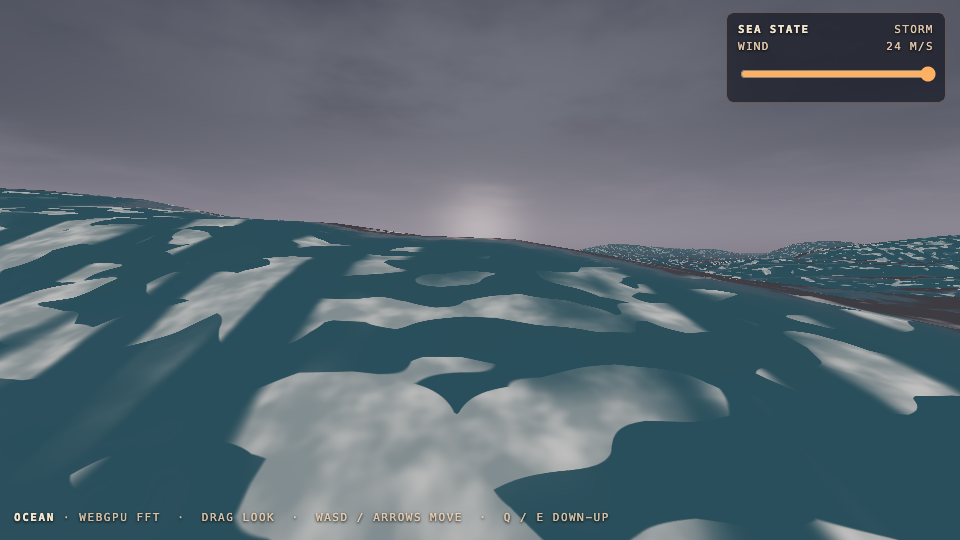
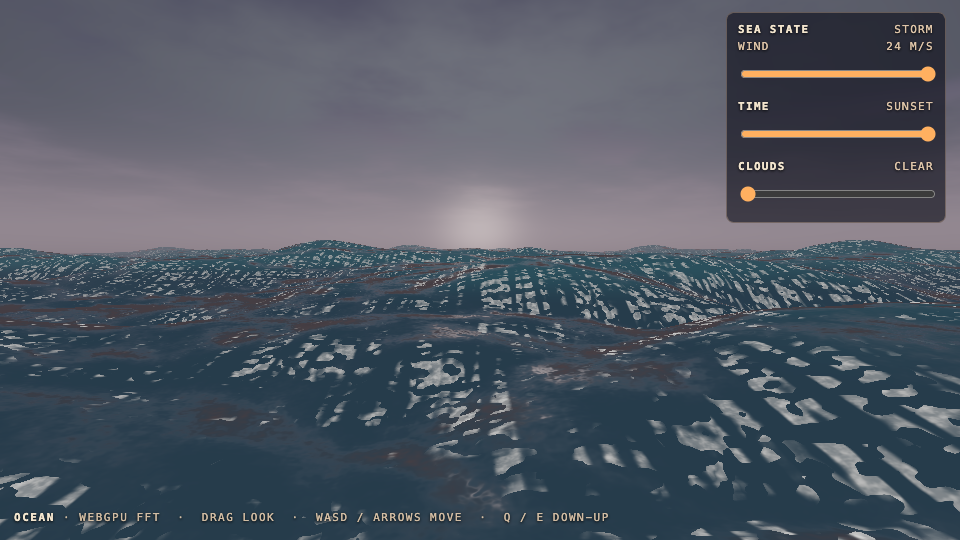
OCEAN: real night sky from the Yale Bright Star Catalogue (#520) (#532)
* QA (#520): stage verified Yale BSC v5 night-sky data (top-500 + MW band)

Source: aduboisforge/Bright-Star-Catalog-JSON (Yale Bright Star Catalogue v5,
J2000). Top 500 by V mag (-1.46..+3.96) with ra/dec/mag/spectral-color, plus
~260 points along the galactic plane for a faint Milky Way band. Verified:
Sirius, Arcturus, Vega, Polaris (dec 89.26, the single star at the N pole),
Canopus, Capella all land at correct J2000 coords. Not yet wired into ocean.html.

Closes nothing (checkpoint). Wires next session: star billboard pass + MW +
__oceanTest.stars() hook + oceancheck real-catalog gate + night shots.

* QA (mini): WIP checkpoint at the 75-minute hard cap

* QA (#520): night-sky wired + verified; regenerate proof shots (Big Dipper, MW band)

oceancheck ALL GREEN: real Yale BSC catalog, pole at lat 38.6N due north,
Big Dipper 7/7 up, sky rotates with the time slider. storm-at-night var
flakes at the wave phase (0.98/1.10 across runs) — pre-existing, not #520.

diff --git a/public/demos/ocean.stars.js b/public/demos/ocean.stars.js
@@ -1,0 +1,17 @@
+// Night-sky data: Yale Bright Star Catalogue v5 (J2000) — top 500 by V magnitude.
+// Source: aduboisforge/Bright-Star-Catalog-JSON (Yale Bright Star Catalogue v5, J2000), master @ 704675ce
+//  [raDeg, decDeg, vMag, colorIdx]  colorIdx: 0 O .. 6 M
+const STAR_SRC = "aduboisforge/Bright-Star-Catalog-JSON (Yale Bright Star Catalogue v5, J2000), master @ 704675ce";
+const STAR_PAL = [[0.61,0.68,1],[0.79,0.84,1],[0.93,0.95,1],[1,0.98,0.94],[1,0.93,0.84],[1,0.78,0.55],[1,0.6,0.36]];
+const LAT_DEG = 38.6;
+const BSC = [
+  [101.287,-16.716,-1.46,2],  [95.988,-52.696,-0.72,3],  [213.915,19.183,-0.04,5],  [219.9,-60.835,-0.01,4],  [279.235,38.784,0.03,2],  [79.172,45.998,0.08,4],  [78.635,-8.202,0.12,1],  [114.825,5.225,0.38,3],  [24.429,-57.237,0.46,1],  [88.793,7.407,0.5,6],  [210.956,-60.373,0.61,1],  [297.696,8.868,0.77,2],  [68.98,16.509,0.85,5],  [247.352,-26.432,0.96,6],  [201.298,-11.161,0.98,1],  [116.329,28.026,1.14,5],  [344.413,-29.622,1.16,2],  [191.93,-59.689,1.25,1],  [310.358,45.28,1.25,2],  [186.65,-63.099,1.33,1],  [219.9,-60.836,1.33,5],  [152.093,11.967,1.35,1],  [104.656,-28.972,1.5,1],  [187.791,-57.113,1.63,6],  [263.402,-37.104,1.63,1],  [81.283,6.35,1.64,1],  [81.573,28.608,1.65,1],  [138.3,-69.717,1.68,2],  [84.053,-1.202,1.7,1],  [186.652,-63.099,1.73,1],  [332.058,-46.961,1.74,1],  [193.507,55.96,1.77,2],  [122.383,-47.337,1.78,4],  [51.081,49.861,1.79,3],  [165.932,61.751,1.79,5],  [107.098,-26.393,1.84,3],  [276.043,-34.385,1.85,1],  [125.628,-59.51,1.86,5],  [206.885,49.313,1.86,1],  [264.33,-42.998,1.87,3],  [89.882,44.947,1.9,2],  [252.166,-69.028,1.92,5],  [99.428,16.399,1.93,2],  [306.412,-56.735,1.94,1],  [131.176,-54.708,1.96,2],  [95.675,-17.956,1.98,1],  [113.65,31.888,1.98,2],  [141.897,-8.659,1.98,5],  [31.793,23.462,2,5],  [239.876,25.92,2,4],  [37.953,89.264,2.02,3],  [283.816,-26.297,2.02,1],  [10.898,-17.987,2.04,4],  [85.19,-1.943,2.05,0],  [2.097,29.091,2.06,1],  [17.433,35.621,2.06,6],  [86.939,-9.67,2.06,1],  [211.671,-36.37,2.06,5],  [222.676,74.156,2.08,5],  [263.734,12.56,2.08,2],  [340.667,-46.885,2.1,6],  [47.042,40.956,2.12,1],  [177.265,14.572,2.14,2],  [190.379,-48.96,2.17,2],  [305.557,40.257,2.2,3],  [136.999,-43.432,2.21,5],  [10.127,56.537,2.23,5],  [83.002,-0.299,2.23,0],  [233.672,26.715,2.23,2],  [269.152,51.489,2.23,5],  [120.896,-40.003,2.25,0],  [139.273,-59.275,2.25,2],  [30.975,42.33,2.26,5],  [2.295,59.15,2.27,3],  [200.981,54.925,2.27,2],  [252.541,-34.293,2.29,5],  [204.972,-53.466,2.3,1],  [220.482,-47.388,2.3,1],  [218.877,-42.158,2.31,1],  [240.083,-22.622,2.32,1],  [165.46,56.383,2.37,2],  [6.571,-42.306,2.39,5],  [326.047,9.875,2.39,5],  [265.622,-39.03,2.41,1],  [345.944,28.083,2.42,6],  [257.595,-15.725,2.43,2],  [178.457,53.695,2.44,2],  [319.645,62.586,2.44,2],  [111.024,-29.303,2.45,1],  [311.553,33.97,2.46,5],  [14.177,60.717,2.47,1],  [346.19,15.205,2.49,1],  [140.528,-55.011,2.5,1],  [45.57,4.09,2.53,6],  [208.885,-47.288,2.55,1],  [168.527,20.524,2.56,2],  [249.29,-10.567,2.56,0],  [83.182,-17.822,2.58,3],  [183.952,-17.542,2.59,1],  [182.09,-50.723,2.6,1],  [285.653,-29.88,2.6,2],  [154.993,19.842,2.61,5],  [229.252,-9.383,2.61,1],  [89.93,37.213,2.62,2],  [241.359,-19.806,2.62,1],  [28.66,20.808,2.64,2],  [84.912,-34.074,2.64,1],  [188.597,-23.397,2.65,4],  [236.067,6.426,2.65,5],  [21.454,60.235,2.68,2],  [208.671,18.398,2.68,4],  [224.633,-43.134,2.68,1],  [74.248,33.166,2.69,5],  [161.692,-49.42,2.69,4],  [189.296,-69.136,2.69,1],  [262.691,-37.296,2.69,1],  [109.286,-37.098,2.7,5],  [221.247,27.074,2.7,5],  [275.249,-29.828,2.7,5],  [296.565,10.613,2.72,5],  [243.586,-3.694,2.74,6],  [245.998,61.514,2.74,4],  [200.149,-36.712,2.75,2],  [222.72,-16.042,2.75,2],  [160.739,-64.394,2.76,1],  [83.858,-5.91,2.77,0],  [247.555,21.49,2.77,4],  [265.868,4.567,2.77,5],  [233.785,-41.167,2.78,1],  [76.963,-5.086,2.79,2],  [262.608,52.301,2.79,4],  [6.438,-77.254,2.8,4],  [183.786,-58.749,2.8,1],  [121.886,-24.304,2.81,3],  [250.322,31.603,2.81,4],  [276.993,-25.422,2.81,5],  [248.971,-28.216,2.82,1],  [3.309,15.184,2.83,1],  [195.544,10.959,2.83,4],  [82.061,-20.759,2.84,4],  [58.533,31.884,2.85,1],  [238.785,-63.431,2.85,3],  [261.325,-55.53,2.85,5],  [29.692,-61.57,2.86,3],  [334.625,-60.26,2.86,5],  [56.871,24.105,2.87,1],  [296.244,45.131,2.87,1],  [326.76,-16.127,2.87,2],  [95.74,22.514,2.88,6],  [113.65,31.889,2.88,2],  [59.463,40.01,2.89,1],  [229.728,-68.679,2.89,2],  [239.713,-26.114,2.89,1],  [245.297,-25.593,2.89,1],  [287.441,-21.024,2.89,3],  [111.788,8.289,2.9,1],  [194.007,38.318,2.9,2],  [322.89,-5.571,2.91,4],  [46.199,53.506,2.93,4],  [102.484,-50.615,2.93,5],  [340.75,30.221,2.94,4],  [59.508,-13.509,2.95,6],  [187.466,-16.516,2.95,1],  [262.96,-49.876,2.95,1],  [331.446,-0.32,2.96,4],  [100.983,25.131,2.98,4],  [146.463,23.774,2.98,4],  [75.492,43.823,2.99,3],  [271.452,-30.424,2.99,5],  [286.352,13.863,2.99,2],  [32.386,34.987,3,2],  [84.411,21.142,3,1],  [182.531,-22.62,3,5],  [199.73,-23.172,3,4],  [55.731,47.788,3.01,1],  [146.775,-65.072,3.01,2],  [167.416,44.499,3.01,5],  [328.482,-37.365,3.01,1],  [95.078,-30.063,3.02,1],  [105.756,-23.833,3.02,1],  [218.02,38.308,3.03,2],  [266.896,-40.127,3.03,3],  [34.836,-2.978,3.04,6],  [207.404,-42.474,3.04,1],  [155.582,41.499,3.05,6],  [191.57,-68.108,3.05,1],  [230.182,71.834,3.05,2],  [288.139,67.662,3.07,4],  [252.968,-38.047,3.08,1],  [292.68,27.96,3.08,5],  [305.253,-14.781,3.08,3],  [133.848,5.946,3.11,4],  [162.406,-16.194,3.11,5],  [274.407,-36.762,3.11,6],  [309.392,-47.291,3.11,5],  [87.74,-35.768,3.12,5],  [140.264,34.392,3.13,5],  [142.805,-57.034,3.13,5],  [173.945,-63.02,3.13,1],  [224.79,-42.104,3.13,1],  [254.655,-55.99,3.13,5],  [134.802,48.042,3.14,2],  [258.758,24.839,3.14,2],  [258.762,36.809,3.16,5],  [76.629,41.234,3.17,1],  [99.44,-43.196,3.17,1],  [143.214,51.677,3.17,3],  [257.197,65.715,3.17,1],  [281.414,-26.991,3.17,1],  [72.46,6.961,3.19,3],  [76.365,-22.371,3.19,5],  [220.627,-64.975,3.19,2],  [254.417,9.375,3.2,5],  [318.234,30.227,3.2,4],  [267.465,-37.043,3.21,5],  [354.837,77.632,3.21,5],  [230.343,-40.648,3.22,1],  [302.826,-0.821,3.23,1],  [322.165,70.561,3.23,1],  [44.565,-40.305,3.24,2],  [56.81,-74.239,3.24,6],  [244.58,-4.692,3.24,4],  [284.736,32.689,3.24,1],  [112.308,-43.301,3.25,5],  [275.328,-2.899,3.26,5],  [9.832,30.861,3.27,5],  [68.499,-55.045,3.27,2],  [102.047,-61.941,3.27,2],  [211.593,-26.683,3.27,5],  [260.502,-24.999,3.27,1],  [343.662,-15.821,3.27,2],  [93.719,22.507,3.28,6],  [226.017,-25.282,3.29,6],  [231.232,58.966,3.29,5],  [16.521,-46.719,3.31,4],  [78.233,-16.206,3.31,1],  [183.857,57.032,3.31,2],  [153.434,-70.038,3.32,1],  [158.006,-61.685,3.32,1],  [286.735,-27.671,3.32,5],  [258.038,-43.239,3.33,3],  [117.324,-24.86,3.34,4],  [168.56,15.429,3.34,2],  [261.348,-56.377,3.34,1],  [269.757,-9.774,3.34,5],  [63.606,-62.474,3.35,4],  [332.714,58.201,3.35,5],  [81.119,-2.397,3.36,1],  [101.322,12.896,3.36,3],  [127.566,60.718,3.36,4],  [291.375,3.115,3.36,3],  [203.673,-0.596,3.37,2],  [230.67,-44.689,3.37,1],  [28.599,63.67,3.38,1],  [131.694,6.419,3.38,4],  [193.901,3.397,3.38,6],  [46.294,38.84,3.39,6],  [67.165,15.871,3.4,2],  [154.271,-61.332,3.4,5],  [340.365,10.831,3.4,1],  [22.091,-43.318,3.41,6],  [28.27,29.579,3.41,3],  [207.376,-41.688,3.41,1],  [228.071,-52.099,3.41,4],  [240.03,-38.397,3.41,1],  [266.615,27.721,3.42,4],  [311.24,-66.203,3.42,2],  [311.322,61.839,3.43,5],  [12.275,57.816,3.44,3],  [137.742,-58.967,3.44,1],  [154.173,23.417,3.44,3],  [286.562,-4.883,3.44,1],  [17.148,-10.182,3.45,5],  [154.274,42.914,3.45,2],  [282.52,33.363,3.45,1],  [40.825,3.236,3.47,2],  [60.17,12.49,3.47,1],  [105.43,-27.935,3.47,5],  [119.195,-52.982,3.47,1],  [228.876,33.315,3.47,4],  [299.689,19.492,3.47,6],  [169.62,33.094,3.48,5],  [258.662,14.39,3.48,6],  [342.501,24.602,3.48,4],  [342.139,-51.317,3.49,2],  [26.017,-15.938,3.5,4],  [225.487,40.391,3.5,4],  [276.743,-45.968,3.51,1],  [284.432,-21.107,3.51,5],  [124.129,9.186,3.52,5],  [145.287,9.892,3.52,3],  [151.833,16.763,3.52,2],  [342.42,66.201,3.52,5],  [67.154,19.18,3.53,4],  [110.031,21.982,3.53,3],  [237.405,-3.43,3.53,2],  [250.724,38.922,3.53,4],  [332.55,6.198,3.53,2],  [55.812,-9.763,3.54,5],  [83.785,9.934,3.54,0],  [149.216,-54.568,3.54,1],  [173.25,-31.858,3.54,4],  [264.397,-15.399,3.54,3],  [86.739,-14.822,3.55,2],  [214.851,-46.058,3.55,1],  [4.857,-8.824,3.56,5],  [34.128,-51.512,3.56,1],  [64.474,-33.798,3.56,1],  [169.835,-14.779,3.56,4],  [230.452,-36.261,3.56,5],  [302.182,-66.182,3.56,4],  [24.498,48.628,3.57,5],  [116.112,24.398,3.57,4],  [253.084,-38.017,3.57,1],  [275.264,72.733,3.57,3],  [304.514,-12.545,3.57,4],  [109.523,16.54,3.58,2],  [217.958,30.371,3.58,5],  [234.256,-28.135,3.58,5],  [185.34,-60.401,3.59,5],  [21.006,-8.183,3.6,5],  [51.203,9.029,3.6,4],  [79.402,-6.844,3.6,1],  [86.116,-22.448,3.6,3],  [103.197,33.961,3.6,2],  [135.906,47.157,3.6,2],  [142.675,-40.467,3.6,3],  [116.314,-37.969,3.61,5],  [152.647,-12.354,3.61,5],  [177.674,1.765,3.61,3],  [22.871,15.346,3.62,4],  [130.073,-52.922,3.62,1],  [195.567,-71.549,3.62,5],  [253.646,-42.361,3.62,5],  [262.775,-60.684,3.62,1],  [266.433,-64.724,3.62,5],  [345.48,42.326,3.62,1],  [42.496,27.261,3.63,1],  [57.29,24.053,3.63,1],  [309.387,14.595,3.63,3],  [176.402,-66.729,3.64,2],  [64.948,15.628,3.65,5],  [190.415,-1.449,3.65,3],  [211.097,64.376,3.65,2],  [313.702,-58.454,3.65,5],  [9.243,53.897,3.66,1],  [234.664,-29.778,3.66,1],  [271.658,-50.092,3.66,1],  [347.362,-21.172,3.66,5],  [142.882,63.062,3.67,3],  [236.547,15.422,3.67,2],  [130.898,-33.186,3.68,1],  [190.415,-1.449,3.68,3],  [231.957,29.106,3.68,3],  [325.023,-16.662,3.68,3],  [49.879,-21.758,3.69,6],  [72.802,5.605,3.69,1],  [146.312,-62.508,3.69,4],  [349.291,3.282,3.69,4],  [28.99,-51.609,3.7,4],  [56.219,24.113,3.7,1],  [269.441,29.248,3.7,4],  [89.101,-14.168,3.71,3],  [176.512,47.779,3.71,5],  [237.704,4.478,3.71,2],  [298.828,6.407,3.71,4],  [73.563,2.441,3.72,1],  [89.882,54.285,3.72,5],  [221.562,1.893,3.72,2],  [316.233,43.928,3.72,5],  [318.698,38.046,3.72,3],  [27.865,-10.335,3.73,5],  [53.232,-9.458,3.73,5],  [118.054,-40.576,3.73,5],  [271.837,9.564,3.73,2],  [51.793,9.733,3.74,1],  [321.667,-22.411,3.74,4],  [343.154,-7.58,3.74,6],  [75.62,41.076,3.75,5],  [136.039,-47.098,3.75,5],  [245.48,19.153,3.75,2],  [266.973,2.707,3.75,2],  [268.382,56.873,3.75,5],  [337.293,58.415,3.75,3],  [42.674,55.896,3.76,5],  [65.734,17.543,3.76,5],  [83.406,-62.49,3.76,3],  [252.446,-59.041,3.76,5],  [325.369,-77.39,3.76,5],  [331.753,25.345,3.76,3],  [56.298,42.579,3.77,3],  [126.434,-66.137,3.77,5],  [286.171,-21.742,3.77,4],  [289.276,53.369,3.77,4],  [309.91,15.912,3.77,1],  [311.919,-9.496,3.77,2],  [337.823,50.282,3.77,2],  [107.187,-70.499,3.78,5],  [163.373,-58.853,3.78,5],  [106.027,20.57,3.79,3],  [111.432,27.798,3.79,4],  [292.426,51.73,3.79,2],  [303.408,46.741,3.79,5],  [47.374,44.857,3.8,5],  [147.748,59.039,3.8,3],  [154.994,19.841,3.8,4],  [233.7,10.537,3.8,3],  [233.7,10.539,3.8,3],  [264.866,46.006,3.8,1],  [84.687,-2.6,3.81,0],  [87.83,-20.879,3.81,5],  [156.523,-16.836,3.81,5],  [68.887,-30.562,3.82,4],  [139.711,36.802,3.82,2],  [156.97,-58.739,3.82,3],  [247.728,1.984,3.82,2],  [296.847,18.534,3.82,6],  [354.391,46.458,3.82,4],  [56.08,32.288,3.83,1],  [163.328,34.215,3.83,5],  [209.568,-42.101,3.83,1],  [221.965,-79.045,3.83,5],  [271.886,28.762,3.83,1],  [297.043,70.268,3.83,4],  [67.144,15.962,3.84,5],  [130.157,-46.649,3.84,3],  [133.762,-60.645,3.84,1],  [159.325,-48.226,3.84,3],  [172.851,69.331,3.84,6],  [235.686,26.296,3.84,1],  [275.925,21.77,3.84,5],  [335.414,-1.387,3.84,2],  [56.05,-64.807,3.85,5],  [86.821,-51.066,3.85,2],  [95.528,-33.436,3.85,4],  [108.703,-26.773,3.85,1],  [153.684,-42.122,3.85,2],  [158.203,9.307,3.85,1],  [239.113,15.662,3.85,3],  [243.86,-63.686,3.85,4],  [278.802,-8.244,3.85,5],  [63.5,-42.294,3.86,5],  [189.426,-48.541,3.86,2],  [269.063,37.251,3.86,5],  [273.441,-21.059,3.86,1],  [14.188,38.499,3.87,2],  [48.018,-28.987,3.87,3],  [56.457,24.368,3.87,1],  [69.545,-14.304,3.87,5],  [82.803,-35.471,3.87,5],  [103.533,-24.184,3.87,5],  [188.117,-72.133,3.87,1],  [188.371,69.788,3.87,1],  [209.67,-44.804,3.87,1],  [227.984,-48.738,3.87,1],  [2.353,-45.748,3.88,5],  [138.591,2.314,3.88,1],  [148.191,26.007,3.88,5],  [202.761,-39.407,3.88,4],  [220.765,-5.658,3.88,3],  [239.221,-29.214,3.88,1],  [44.107,-8.898,3.89,5],  [170.252,-54.491,3.89,1],  [184.977,-0.667,3.89,2],  [244.935,46.313,3.89,1],  [248.363,-78.897,3.89,4],  [299.077,35.083,3.89,5],  [126.415,-3.906,3.9,2],  [298.118,1.006,3.9,3],  [347.59,-45.247,3.9,5],  [60.789,5.989,3.91,2],  [131.507,-46.042,3.91,2],  [144.964,-1.143,3.91,5],  [167.147,-58.975,3.91,4],  [187.01,-50.231,3.91,1],  [233.882,-14.789,3.91,4],  [17.096,-55.246,3.92,1],  [255.073,30.926,3.92,2],  [318.956,5.248,3.92,4],  [69.08,-3.353,3.93,1],  [115.312,-9.551,3.93,5],  [290.418,-17.847,3.93,3],  [6.551,-43.68,3.94,2],  [131.171,18.154,3.94,5],  [170.981,10.529,3.94,3],  [314.293,41.167,3.94,2],  [22.813,-49.073,3.95,5],  [43.565,52.763,3.95,4],  [99.171,-19.256,3.95,5],  [115.455,-72.606,3.95,5],  [200.985,54.922,3.95,2],  [237.74,-33.627,3.95,1],  [341.633,23.566,3.95,4],  [66.009,-34.017,3.96,5],  [89.787,-42.815,3.96,5],  [102.46,-32.509,3.96,1],  [115.952,-28.955,3.96,2],  [182.913,-52.369,3.96,1],  [241.702,-20.669,3.96,1],  [300.148,-72.911,3.96,2],
+];
+// Faint Milky Way band: ~260 points scattered along the galactic plane (J2000).
+//  [raDeg, decDeg, additiveBrightness]
+const MILKY = [
+  [268.1,29.61,0.06],  [265.43,26.67,0.069],  [268.31,26.46,0.091],  [268.05,25.9,0.089],  [265.26,21.58,0.051],  [272.32,23.64,0.056],  [271.26,21.37,0.081],  [272.58,20.97,0.068],  [272.57,20.23,0.086],  [274.78,18.31,0.072],  [271.21,16.55,0.054],  [276.03,16.13,0.062],  [272.24,13.54,0.048],  [276.76,12.93,0.086],  [278.27,13.31,0.056],  [279.3,11.39,0.051],  [277.26,10.2,0.078],  [275.11,6.95,0.047],  [281.03,7.26,0.061],  [281.69,6.54,0.053],  [282.62,6.22,0.06],  [279.85,2.19,0.056],  [279.71,1.19,0.061],  [283.26,1.21,0.064],  [281.58,-1.07,0.052],  [284.49,-1.24,0.07],  [285.03,-2.55,0.069],  [282.94,-4.6,0.054],  [285.98,-4.54,0.085],  [286.62,-5.8,0.066],  [283.36,-8.83,0.039],  [284.15,-10.94,0.036],  [286.57,-10.31,0.057],  [286.4,-12.31,0.046],  [289.82,-12.83,0.086],  [287.22,-15.34,0.055],  [291.64,-14.51,0.074],  [287.93,-16.95,0.048],  [293.74,-16.08,0.057],  [294.73,-17.6,0.051],  [292.31,-20.39,0.072],  [294.98,-19.67,0.065],  [296.66,-21.95,0.064],  [291.92,-24.42,0.049],  [300.16,-22.22,0.042],  [299.86,-24.6,0.054],  [299.75,-25.11,0.059],  [299.33,-28.97,0.087],  [299.84,-28.33,0.076],  [302.16,-29.65,0.066],  [302.13,-31.22,0.076],  [299.11,-33.8,0.058],  [303.19,-32.8,0.069],  [304.11,-34.93,0.094],  [305.78,-35.12,0.073],  [303.29,-38.61,0.057],  [308.06,-37.39,0.061],  [309.02,-37.4,0.052],  [310.83,-39.9,0.067],  [311.66,-41.51,0.078],  [311.94,-42.77,0.088],  [311.67,-44.26,0.061],  [311.44,-46.41,0.053],  [318.33,-43.23,0.049],  [315.5,-48.73,0.057],  [319.62,-46.89,0.066],  [321.3,-47.65,0.048],  [323.22,-47.51,0.042],  [321.91,-52.54,0.06],  [324.26,-51.1,0.076],  [324.9,-53.6,0.065],  [325.97,-54.97,0.055],  [328.87,-53.65,0.076],  [334.04,-53.43,0.054],  [332.87,-57.82,0.066],  [335.83,-59.39,0.051],  [337.93,-57.35,0.079],  [337.24,-63.01,0.05],  [341.7,-60.57,0.05],  [345.38,-60.2,0.078],  [346.02,-61.1,0.059],  [348.65,-58.62,0.051],  [353.69,-60.01,0.068],  [357.57,-64.63,0.048],  [357.13,-61.06,0.073],  [4.03,-63.68,0.062],  [1.02,-58.76,0.056],  [9.44,-66.12,0.058],  [11.34,-65.27,0.049],  [14.51,-63.48,0.084],  [16.7,-64.03,0.071],  [17.52,-61.46,0.074],  [19.13,-60.1,0.055],  [30.45,-65.12,0.051],  [26.1,-59.33,0.057],  [30.99,-62.24,0.071],  [38.83,-63.48,0.044],  [37.64,-62.58,0.061],  [33.42,-56.17,0.043],  [40.94,-58.5,0.071],  [48.03,-61.04,0.052],  [46.8,-58.73,0.081],  [45.96,-55.71,0.053],  [51.63,-56.12,0.089],  [47.3,-52.4,0.044],  [48.64,-50.47,0.039],  [56.84,-55.73,0.072],  [53.95,-51.22,0.058],  [62.83,-52.76,0.064],  [63.89,-52.97,0.063],  [64,-51.86,0.084],  [60.88,-48.05,0.06],  [62.04,-45.79,0.056],  [68.49,-47.37,0.082],  [68.67,-46.01,0.077],  [66.13,-43.8,0.054],  [70.25,-43.57,0.063],  [75.22,-44.54,0.058],  [73.78,-41.26,0.07],  [77.88,-43.82,0.059],  [78.72,-41.95,0.067],  [74.32,-36.93,0.057],  [80.6,-39.04,0.074],  [77.45,-36.53,0.051],  [79.23,-35.76,0.074],  [81.63,-34.02,0.07],  [80.19,-32.75,0.063],  [82.45,-31.23,0.066],  [85.47,-31.36,0.073],  [86.53,-30,0.084],  [87.86,-29.23,0.063],  [84.86,-27.48,0.051],  [89.43,-28.05,0.058],  [90.09,-26.26,0.065],  [87.61,-24.32,0.06],  [93.56,-24.55,0.057],  [91.83,-23.06,0.058],  [91.25,-21.02,0.089],  [91.81,-19.16,0.077],  [91.44,-17.21,0.051],  [90.63,-14.64,0.046],  [95.08,-15.83,0.083],  [91.07,-12.83,0.038],  [96.39,-13.49,0.081],  [96.9,-11.75,0.087],  [95.33,-10.99,0.071],  [97.51,-8.88,0.08],  [99.29,-9.55,0.062],  [100.32,-7.55,0.076],  [99.83,-6.3,0.087],  [101.3,-4.24,0.083],  [100.48,-3.33,0.078],  [101.47,-2.17,0.082],  [100.75,0.21,0.061],  [102.58,-0.18,0.079],  [104.42,-0.19,0.057],  [106.99,1.74,0.05],  [105.2,3.18,0.067],  [107.13,3.12,0.064],  [103.28,8.55,0.049],  [108.05,7.82,0.076],  [110.34,7.43,0.055],  [107.94,11.13,0.077],  [109.87,10.85,0.059],  [111.3,11.88,0.054],  [109.19,14.51,0.065],  [110.99,15.62,0.084],  [110.69,15.37,0.085],  [112.14,16.32,0.072],  [114.61,18.48,0.059],  [115.13,18.48,0.048],  [111.53,23.53,0.046],  [112.46,23.93,0.059],  [117.77,22.6,0.061],  [114.53,25.43,0.05],  [117.91,25.79,0.07],  [119.34,24.76,0.061],  [119.03,27.71,0.089],  [120,29.39,0.081],  [117.26,31.66,0.04],  [119.12,33.32,0.052],  [123.05,32.58,0.065],  [120.79,34.97,0.048],  [121.73,35.66,0.049],  [120.92,37.99,0.041],  [124.94,39.1,0.049],  [125.89,39.33,0.071],  [123.52,41.64,0.048],  [129.13,41.28,0.077],  [128.57,41.81,0.058],  [132.06,41.45,0.067],  [134.45,43.32,0.064],  [133.53,44.5,0.087],  [132.2,47.86,0.054],  [134.01,47.89,0.051],  [137.91,47.53,0.078],  [138.36,49.99,0.063],  [140.85,48.56,0.057],  [139.72,55.58,0.035],  [142.66,53.95,0.062],  [146.88,53.03,0.076],  [146.35,53.55,0.075],  [150.16,56.19,0.072],  [150.62,56.18,0.078],  [152.81,56.38,0.073],  [156.65,52.85,0.048],  [157.92,57.5,0.082],  [160.27,57.58,0.073],  [162.94,57.24,0.048],  [165.34,57.97,0.066],  [168.68,63.28,0.058],  [169.76,61.71,0.069],  [171.51,61.06,0.09],  [174.3,58.82,0.052],  [181.39,65.3,0.049],  [181.73,63.56,0.072],  [186.69,62.96,0.082],  [185.64,60.48,0.056],  [193.88,65.02,0.057],  [193.68,60.85,0.069],  [195.42,59.28,0.042],  [198.85,61.51,0.073],  [207.2,66.9,0.045],  [204.47,62.81,0.087],  [208.2,62.63,0.069],  [211.54,63.08,0.072],  [213.59,62.05,0.066],  [217.2,60.27,0.079],  [219.56,59.15,0.067],  [227.16,61.46,0.052],  [223.8,59.63,0.08],  [222.81,56.95,0.057],  [233.67,59.77,0.052],  [232.08,56.91,0.087],  [235.41,56.95,0.076],  [234.24,54.22,0.066],  [243.56,57.31,0.039],  [233.93,50.66,0.043],  [239.99,52.65,0.074],  [242.21,50.67,0.074],  [245.59,51.08,0.08],  [246.12,50.46,0.082],  [247.01,48.85,0.08],  [252.14,48.83,0.049],  [252.77,49.73,0.048],  [249.88,45.63,0.067],  [249.35,43.66,0.056],  [251.13,42.39,0.064],  [261.17,45.82,0.034],  [257.98,41.91,0.056],  [261.94,42.79,0.037],  [258.64,40.09,0.072],  [257.73,38.66,0.069],  [259.33,37.22,0.089],  [259.68,35.14,0.073],  [262.52,35.37,0.085],  [259.91,33.19,0.062],  [264.19,32.91,0.08],  [266.59,32.85,0.064],  [267.24,30.18,0.064],
+];
+// Loaded as a classic <script> before ocean.html's module — expose on window so the
+// module can read it (top-level consts here are script-scoped, not global).
+if (typeof window !== 'undefined') window.OCEAN_STARS = { BSC, MILKY, STAR_PAL, LAT_DEG, STAR_SRC };

diff --git a/public/demos/ocean.html b/public/demos/ocean.html
@@ -48,6 +48,7 @@
   <input id="cloud" type="range" min="0" max="100" step="1" value="0" aria-label="Cloud cover, clear to overcast">
 </div>
 <div id="fatal"></div>
+<script src="ocean.stars.js"></script>
 <script type="module">
 'use strict';
 
@@ -62,6 +63,28 @@ const MOON_EL_K = [0.60, 0.10, -0.40, 0.05];
 const smooth01 = x => (x <= 0 ? 0 : x >= 1 ? 1 : x * x * (3 - 2 * x));
 const lerpKeys = (K, v) => { const k = Math.max(0, Math.min(1, v)) * 3; const i = Math.min(Math.floor(k), 2); return K[i] + (K[i + 1] - K[i]) * smooth01(k - i); };
 const WIND_AZ = 0.0;
+
+// ---- real night sky: Yale Bright Star Catalogue v5 (J2000), see ocean.stars.js ----
+// ~500 brightest stars + a faint Milky Way band, as seen from LAT_DEG N. Positions are
+// celestial (RA/Dec); they rotate with the time-of-day slider via local sidereal time,
+// so the Big Dipper sits high in the north at NIGHT and drifts west as the sky turns.
+const SKY = (typeof OCEAN_STARS !== 'undefined') ? OCEAN_STARS : { BSC: [], MILKY: [], STAR_PAL: [[1, 1, 1]], LAT_DEG: 38.6 };
+const PHI = SKY.LAT_DEG * Math.PI / 180;          // latitude -> celestial pole altitude
+const LST0 = 185;                                  // LST at tod=0: Dipper on the meridian, high in the north
+const STAR_D = (() => {
+  const out = [];
+  const mn = -1.46, mx = 3.96, sp = mx - mn;       // V-mag range of the embedded catalog
+  for (let i = 0; i < SKY.BSC.length; i++) {
+    const s = SKY.BSC[i];
+    const p = Math.max(0, Math.min(1, (mx - s[2]) / sp));   // 0 faint .. 1 brightest
+    const sizePx = 1.1 + 3.4 * Math.pow(p, 1.7);            // angular size (px radius) by brightness
+    const br = 0.5 + 2.1 * Math.pow(p, 2.2);                // additive brightness by brightness
+    const c = SKY.STAR_PAL[s[3]] || [1, 1, 1];              // spectral color O..M
+    out.push({ ra: s[0], dec: s[1], sizePx, br, c, tw: (i * 0.6180339887) % 1 });
+  }
+  for (const m of SKY.MILKY) out.push({ ra: m[0], dec: m[1], sizePx: 10.0, br: m[2] * 5.0, c: [0.56, 0.63, 0.80], tw: Math.random() });
+  return out;
+})();
 
 const OCT = [
   { L: 95,  A: 130.0, kc: 0.010, chop: 1.25 },
@@ -247,21 +270,7 @@ fn skyColor(dirIn: vec3f, t: f32) -> vec3f {
   let moonVis = g_night * (1.0 - 0.90 * cc) * (1.0 - 0.55 * st);
   sky += vec3f(0.30, 0.40, 0.62) * (pow(mmu, 14.0) * 0.12 + pow(mmu, 300.0) * 0.9) * moonVis;
   sky += vec3f(0.95, 0.97, 1.0) * smoothstep(0.99963, 0.99980, mmu) * 1.6 * moonVis;
-  if (g_night > 0.02 && dy > 0.03 && cc < 0.95) {
-    let sp = d.xz / (dy + 0.22) * 34.0;
-    let cell = floor(sp);
-    let h1 = fract(sin(dot(cell, vec2f(127.1, 311.7))) * 43758.5453);
-    let h2 = fract(sin(dot(cell, vec2f(269.5, 183.3))) * 24634.6345);
-    if (h1 > 0.948) {
-      let br = (h1 - 0.948) / 0.052;
-      let pos = (vec2f(h1, h2) - 0.5) * 0.7;
-      let sd = length(sp - cell - 0.5 - pos);
-      let tw = 0.72 + 0.28 * sin(t * (1.5 + 4.0 * h2) + h1 * 40.0);
-      sky += mix(vec3f(0.80, 0.86, 1.0), vec3f(1.0, 0.94, 0.84), h2)
-           * smoothstep(0.115, 0.02, sd) * tw * (0.45 + 0.55 * br)
-           * g_night * (1.0 - 0.9 * cc) * smoothstep(0.03, 0.22, dy) * 3.2;
-    }
-  }
+  // real stars (Yale BSC) + Milky Way are drawn by a separate billboard pass, not here
   let cloudY = max(dy, 0.004);
   let cp = d.xz / (cloudY + 0.10) * 1.35 + vec2f(t * (0.010 + 0.030 * st), t * (0.004 + 0.014 * st));
   var cld = fbm(cp, 5);
@@ -696,6 +705,71 @@ async function boot() {
     depthStencil: { format: 'depth24plus', depthCompare: 'always', depthWriteEnabled: false },
   });
 
+  // ---------- real star + Milky Way billboard pass ----------
+  // Each star is a small constant-SCREEN-size quad (pixel offset in NDC, so it does not
+  // swell with depth), additive, depth-tested so the sea occludes low stars. Positions come
+  // from the Yale BSC via local sidereal time (rotates with the tod slider).
+  const STAR_RADIUS = 900;
+  const M_STAR = `
+    struct StarU { vp: mat4x4f, radius: f32, px: f32, py: f32, time: f32, night: f32, cloud: f32, p0: f32, p1: f32 };
+    @group(0) @binding(0) var<uniform> u: StarU;
+    struct SOut { @builtin(position) pos: vec4f, @location(0) uv: vec2f, @location(1) col: vec3f, @location(2) att: f32, @location(3) tw: f32 };
+    @vertex
+    fn vs_star(@location(0) corner: vec2f, @location(1) d4: vec4f, @location(2) c4: vec4f) -> SOut {
+      let center = d4.xyz * u.radius;
+      let cc = u.vp * vec4f(center, 1.0);
+      var o: SOut;
+      o.col = c4.rgb;
+      o.tw = 0.72 + 0.28 * sin(u.time * (1.5 + 2.5 * fract(c4.w * 17.0)) + c4.w * 43.0);
+      o.att = smoothstep(0.02, 0.18, d4.y);   // fade out at the horizon (d4.y = up factor)
+      if (cc.w <= 0.0) { o.pos = vec4f(3.0, 3.0, 1.0, 1.0); o.uv = vec2f(0.0); o.att = 0.0; return o; }
+      let ndc = cc.xyz / cc.w;
+      let ox = corner.x * d4.w * (2.0 / u.px);
+      let oy = corner.y * d4.w * (2.0 / u.py);
+      o.pos = vec4f(ndc.x + ox, ndc.y + oy, ndc.z, 1.0);
+      o.uv = corner;
+      return o;
+    }
+    @fragment
+    fn fs_star(in: SOut) -> @location(0) vec4f {
+      let r = length(in.uv);
+      if (r > 1.0) { discard; }
+      let core = smoothstep(0.60, 0.0, r);
+      let fall = pow(1.0 - r, 2.0);
+      let b = in.att * in.tw * u.night * (1.0 - 0.92 * u.cloud);
+      return vec4f(in.col * (0.5 + 1.1 * core) * fall * b, 1.0);
+    }
+  `;
+  const modStar = mkMod(M_STAR);
+  const starCorner = new Float32Array([-1, -1, 1, -1, -1, 1, 1, 1]);
+  const starCornerBuf = device.createBuffer({ size: starCorner.byteLength, usage: GPUBufferUsage.VERTEX | GPUBufferUsage.COPY_DST });
+  device.queue.writeBuffer(starCornerBuf, 0, starCorner);
+  const starIdx = new Uint32Array([0, 1, 2, 2, 1, 3]);
+  const starIdxBuf = device.createBuffer({ size: starIdx.byteLength, usage: GPUBufferUsage.INDEX | GPUBufferUsage.COPY_DST });
+  device.queue.writeBuffer(starIdxBuf, 0, starIdx);
+  const starInstBuf = device.createBuffer({ size: Math.max(1, STAR_D.length) * 8 * 4, usage: GPUBufferUsage.VERTEX | GPUBufferUsage.COPY_DST });
+  const starInstArr = new Float32Array(Math.max(1, STAR_D.length) * 8);
+  const uStar = device.createBuffer({ size: 96, usage: U });
+  const starLayout = device.createBindGroupLayout({ entries: [{ binding: 0, visibility: GPUShaderStage.VERTEX | GPUShaderStage.FRAGMENT, buffer: { type: 'uniform' } }] });
+  const bgStar = device.createBindGroup({ layout: starLayout, entries: [{ binding: 0, resource: { buffer: uStar } }] });
+  const starPipeline = device.createRenderPipeline({
+    layout: device.createPipelineLayout({ bindGroupLayouts: [starLayout] }),
+    vertex: { module: modStar, entryPoint: 'vs_star', buffers: [
+      { arrayStride: 8, attributes: [{ shaderLocation: 0, offset: 0, format: 'float32x2' }] },
+      { arrayStride: 32, stepMode: 'instance', attributes: [
+        { shaderLocation: 1, offset: 0, format: 'float32x4' },
+        { shaderLocation: 2, offset: 16, format: 'float32x4' },
+      ] },
+    ] },
+    fragment: { module: modStar, entryPoint: 'fs_star', targets: [{ format, blend: {
+      color: { srcFactor: 'one', dstFactor: 'one', operation: 'add' },
+      alpha: { srcFactor: 'one', dstFactor: 'one', operation: 'add' },
+    } }] },
+    primitive: { topology: 'triangle-list' },
+    depthStencil: { format: 'depth24plus', depthCompare: 'less', depthWriteEnabled: true },
+  });
+  let starInstCount = 0, curNight = 1;
+
   // ---------- matrix helpers ----------
   function lookAt(eye, f, up) {
     const z = norm3([eye[0] - f[0], eye[1] - f[1], eye[2] - f[2]]);
@@ -825,6 +899,32 @@ async function boot() {
       moonDir[0], moonDir[1], moonDir[2], 0,
     ]));
 
+    // real stars: rebuild this frame's billboards from the catalog at LST(tod)
+    {
+      const lst = (LST0 + tod * 180) * Math.PI / 180;
+      const sinP = Math.sin(PHI), cosP = Math.cos(PHI);
+      let n = 0;
+      for (const st of STAR_D) {
+        const a = st.ra * Math.PI / 180, d = st.dec * Math.PI / 180, H = lst - a;
+        const cD = Math.cos(d);
+        const E = -cD * Math.sin(H);
+        const N = Math.sin(d) * cosP - cD * sinP * Math.cos(H);
+        const Uu = Math.sin(d) * sinP + cD * cosP * Math.cos(H);
+        if (Uu <= 0.0) continue;                 // below the horizon
+        const inv = 1 / Math.hypot(E, N, Uu);
+        const o = n * 8;
+        starInstArr[o] = E * inv; starInstArr[o + 1] = Uu * inv; starInstArr[o + 2] = N * inv; starInstArr[o + 3] = st.sizePx;
+        starInstArr[o + 4] = st.c[0]; starInstArr[o + 5] = st.c[1]; starInstArr[o + 6] = st.c[2]; starInstArr[o + 7] = st.tw;
+        n++;
+      }
+      starInstCount = n;
+      if (n) device.queue.writeBuffer(starInstBuf, 0, starInstArr.subarray(0, n * 8));
+      curNight = nightness;
+      device.queue.writeBuffer(uStar, 0, new Float32Array([
+        ...vp, STAR_RADIUS, vw, vh, t, nightness, cloud, 0, 0,
+      ]));
+    }
+
     const enc = device.createCommandEncoder();
     if (refilling) {
       for (let i = 0; i < 2; i++) {
@@ -857,6 +957,12 @@ async function boot() {
     }], depthStencilAttachment: { view: depthView, loadOp: 'clear', storeOp: 'discard', depthLoadOp: 'clear', depthStoreOp: 'discard', depthClearValue: 1.0 } });
     rp.setPipeline(skyPipeline); rp.setBindGroup(0, bgSky);
     rp.setVertexBuffer(0, skyVBuf); rp.draw(3);
+    if (starInstCount > 0) {
+      rp.setPipeline(starPipeline); rp.setBindGroup(0, bgStar);
+      rp.setVertexBuffer(0, starCornerBuf); rp.setVertexBuffer(1, starInstBuf);
+      rp.setIndexBuffer(starIdxBuf, 'uint32');
+      rp.drawIndexed(starIdx.length, starInstCount, 0, 0);
+    }
     rp.setPipeline(seaPipeline); rp.setBindGroup(0, bgSea);
     rp.setVertexBuffer(0, vtxBuf); rp.setIndexBuffer(idxBuf, 'uint32');
     rp.drawIndexed(gridIdx.length);
@@ -911,6 +1017,36 @@ async function boot() {
       let m = 0; for (const v of a) m += v; m /= a.length;
       let vr = 0; for (const v of a) vr += (v - m) * (v - m); vr /= a.length;
       return { mean: m, variance: vr, frames, time: t };
+    },
+    stars() {
+      const lst = (LST0 + tod * 180) * Math.PI / 180;
+      const sinP = Math.sin(PHI), cosP = Math.cos(PHI);
+      const toDir = (ra, dec) => {
+        const a = ra * Math.PI / 180, d = dec * Math.PI / 180, H = lst - a;
+        const cD = Math.cos(d);
+        const E = -cD * Math.sin(H);
+        const N = Math.sin(d) * cosP - cD * sinP * Math.cos(H);
+        const Uu = Math.sin(d) * sinP + cD * cosP * Math.cos(H);
+        const inv = 1 / Math.hypot(E, N, Uu);
+        const alt = Math.asin(Uu) * 180 / Math.PI;
+        const az = (Math.atan2(E, N) * 180 / Math.PI + 360) % 360;
+        return { dir: [E * inv, Uu * inv, N * inv], alt: +alt.toFixed(2), az: +az.toFixed(2), above: Uu > 0 };
+      };
+      const find = (ra, dec) => { let best = null, bd = 1e9; for (const s of SKY.BSC) { const dx = s[0] - ra, dy = s[1] - dec, dd = dx * dx + dy * dy; if (dd < bd) { bd = dd; best = s; } } return best; };
+      const wrap = (ra, dec) => { const s = find(ra, dec); return s ? { ra: s[0], dec: s[1], mag: s[2], ...toDir(s[0], s[1]) } : null; };
+      const named = {};
+      for (const [k, v] of Object.entries({ sirius: [101.29, -16.72], polaris: [37.95, 89.26], vega: [279.24, 38.78], arcturus: [213.92, 19.18], capella: [79.17, 46.0], canopus: [95.99, -52.7] })) named[k] = wrap(v[0], v[1]);
+      named.dipper = {};
+      for (const [k, v] of Object.entries({ dubhe: [165.93, 61.75], merak: [165.46, 56.38], phecda: [178.46, 53.69], megrez: [183.86, 57.03], alioth: [193.51, 55.96], mizar: [200.98, 54.93], alkaid: [206.89, 49.31] })) named.dipper[k] = wrap(v[0], v[1]);
+      named.orion = {};
+      for (const [k, v] of Object.entries({ betelgeuse: [88.79, 7.41], rigel: [78.63, -8.2], bellatrix: [81.28, 6.35], mintaka: [83.0, -0.3], alnilam: [84.05, -1.2], alnitak: [85.19, -1.94], saiph: [86.94, -9.67] })) named.orion[k] = wrap(v[0], v[1]);
+      return {
+        count: SKY.BSC.length, mwCount: SKY.MILKY.length, lat: SKY.LAT_DEG,
+        lstDeg: +((((lst * 180 / Math.PI) % 360) + 360) % 360).toFixed(1),
+        night: +curNight.toFixed(3), uploaded: starInstCount,
+        pole: [0, +Math.sin(PHI).toFixed(4), +Math.cos(PHI).toFixed(4)],
+        named,
+      };
     },
   };
 }
